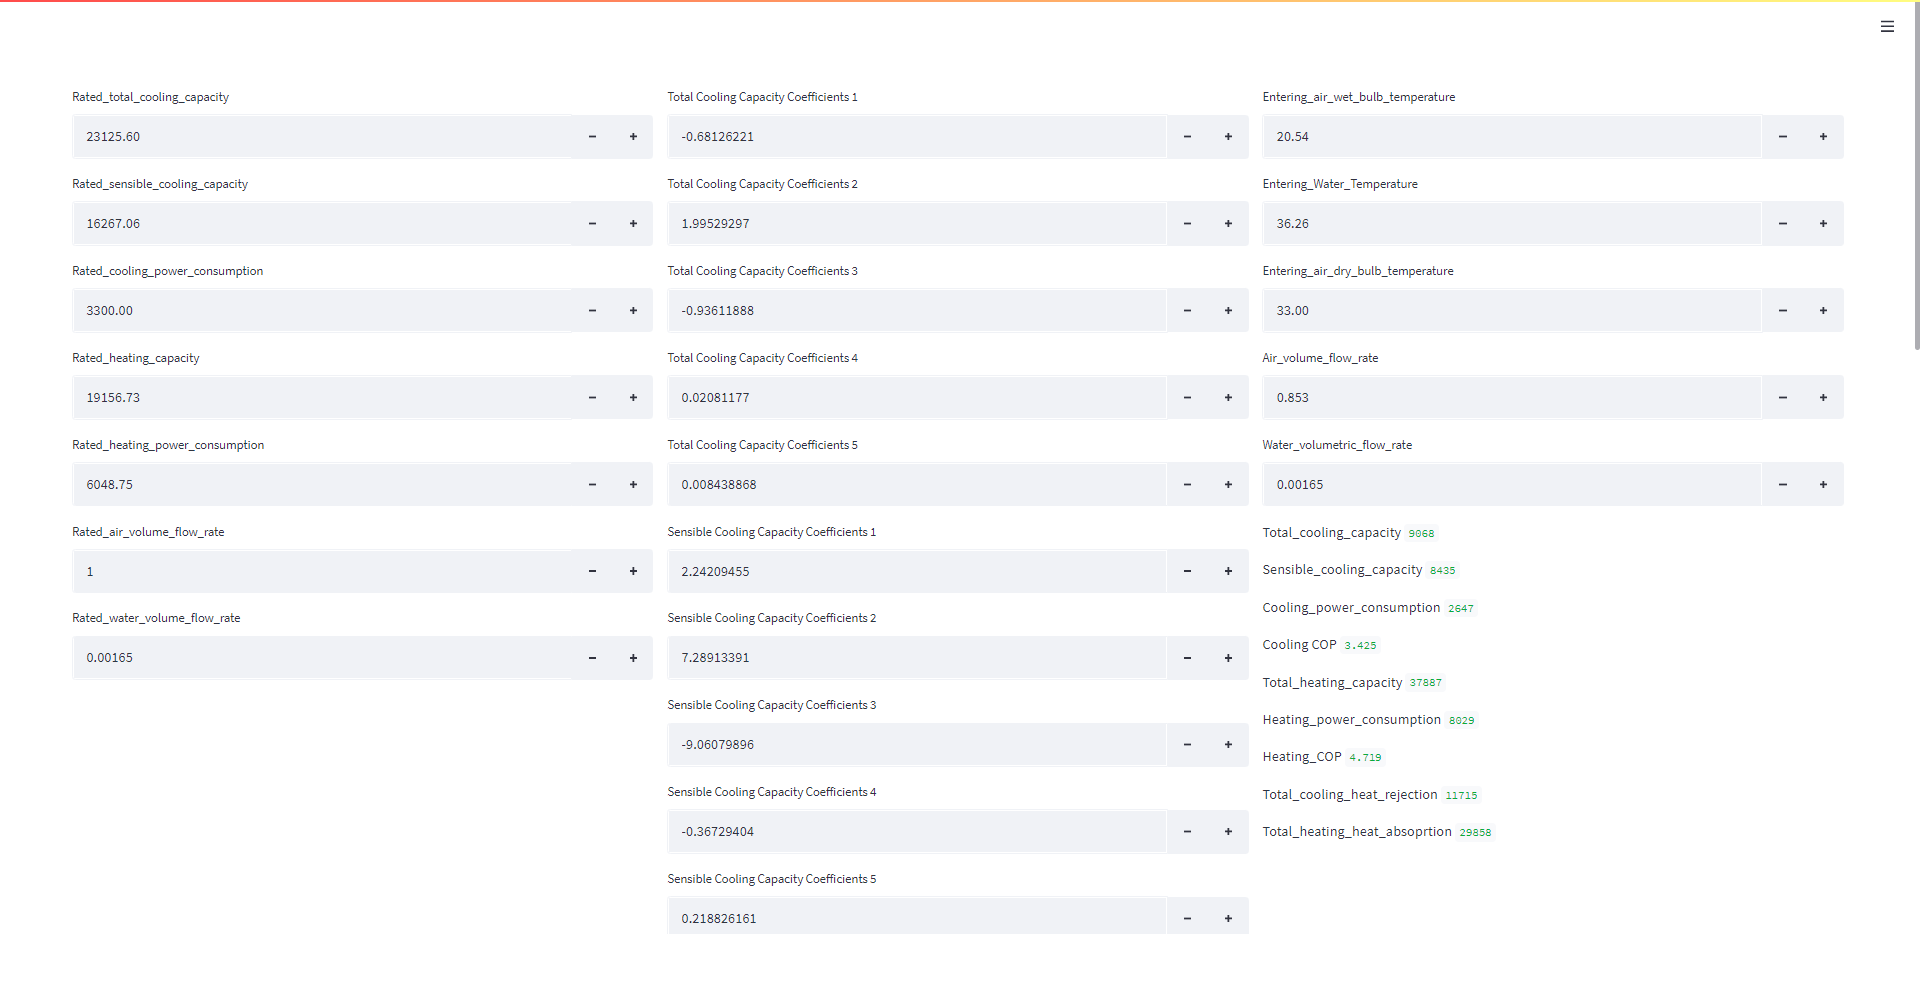
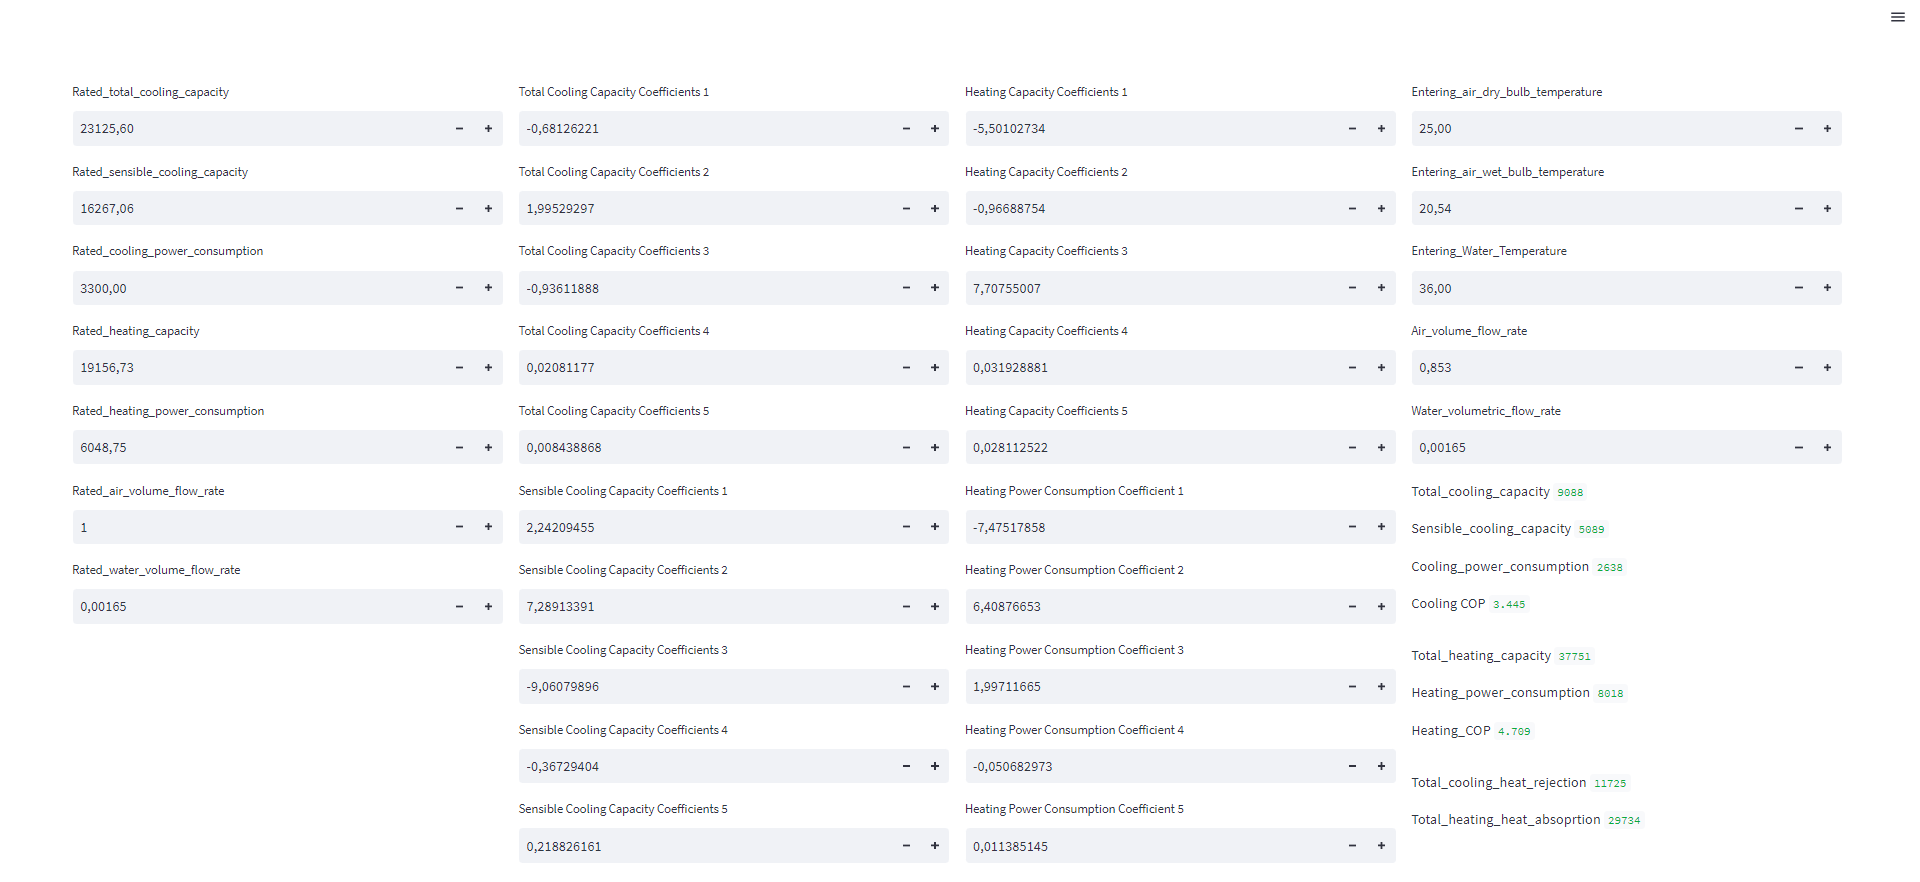
cosmetic changes

diff --git a/EP-WAHP/app.py b/EP-WAHP/app.py
@@ -1,7 +1,7 @@
 import streamlit as st
 
 st.set_page_config(
-    page_title="EP WAHP",
+    page_title="EnergyPlus HeatPumpToWaterAir:EquationFit",
     layout="wide"
 )
 
@@ -36,7 +36,7 @@ with c2:
     C3 = st.number_input('Cooling Power Consumption Coefficients 3', value = 3.16734236, format="%f")
     C4 = st.number_input('Cooling Power Consumption Coefficients 4', value = 0.10244637, format="%f")
     C5 = st.number_input('Cooling Power Consumption Coefficients 5', value = -0.038132556, format="%f")
-    
+
 with c3:    
     # Heating Capacity Coefficients
     E1 = st.number_input('Heating Capacity Coefficients 1', value = -5.50102734, format="%f")
@@ -53,9 +53,9 @@ with c3:
 
 with c4:
     # Temperatures and flows from the simulation
+    Entering_air_dry_bulb_temperature = st.number_input('Entering_air_dry_bulb_temperature', value = 33.00, step=0.1)
     Entering_air_wet_bulb_temperature = st.number_input('Entering_air_wet_bulb_temperature', value = 20.54, step=0.1)
     Entering_Water_Temperature = st.number_input('Entering_Water_Temperature', value = 36.26, step=0.1)
-    Entering_air_dry_bulb_temperature = st.number_input('Entering_air_dry_bulb_temperature', value = 33.00, step=0.1)
     Air_volume_flow_rate = st.number_input('Air_volume_flow_rate', value = 0.853, step=0.001, format="%f")
     Water_volumetric_flow_rate = st.number_input('Water_volumetric_flow_rate', value = 0.00165, step=0.001, format="%f")
 
@@ -87,8 +87,10 @@ with c4:
     st.write('Sensible_cooling_capacity ', round(Sensible_cooling_capacity))
     st.write('Cooling_power_consumption ', round(Cooling_power_consumption))
     st.write('Cooling COP', round(Cooling_COP,3))
+    st.write('')
     st.write('Total_heating_capacity ', round(Total_heating_capacity))
     st.write('Heating_power_consumption ', round(Heating_power_consumption))
     st.write('Heating_COP', round(Heating_COP,3))
+    st.write('')
     st.write('Total_cooling_heat_rejection ', round(Total_cooling_heat_rejection))
     st.write('Total_heating_heat_absoprtion ', round(Total_heating_heat_absoprtion))
